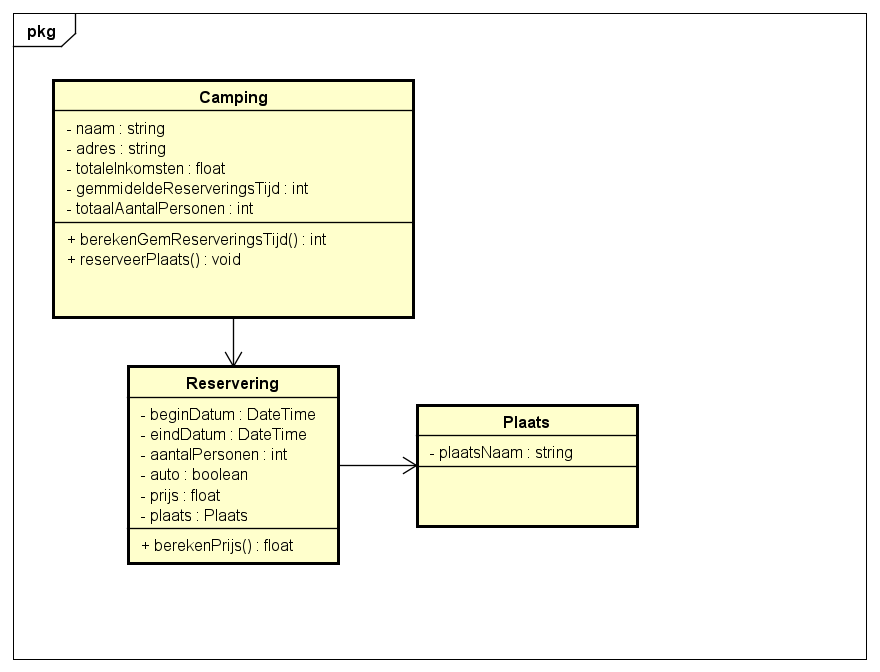
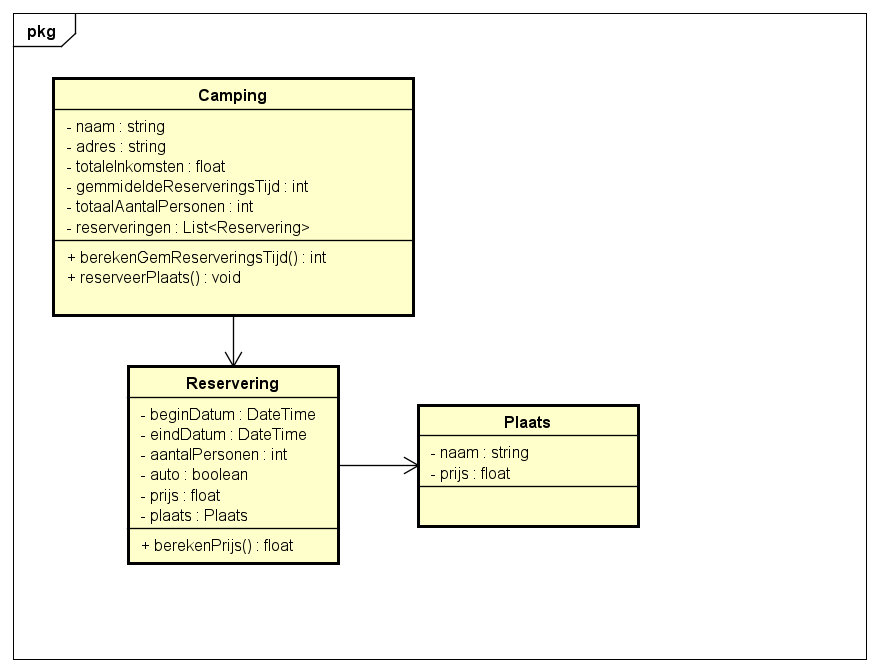
Mockup toegevoegd en klassediagram uitgebreidt

Changed region(s): [[0.0614, 0.0938, 0.4602, 0.4375], [0.4602, 0.625, 0.7364, 0.75], [0.0614, 0.4688, 0.4602, 0.5]]

diff --git a/readme.md b/readme.md
@@ -59,6 +59,11 @@ In de onderstaande tabel zal de uitvoer beschreven worden.
 
 ![Klassendiagram](ClassDiagram.png "Eerste versie van het klassendiagram")
 
+## Mockup
+
+![Mockup](Mockup.png "Eerste versie van de mockup")
+
+
 ## Testplan
 
 In dit onderdeel zal beschreven worden hoe de aplicatie getest gaat worden.
@@ -110,8 +115,7 @@ Verifieer de gemiddelde reserveringsduur.
 
 | Stap | Invoer                        | Actie                              | Verwachte Uitvoer |
 | ---- | ----------------------------- | ---------------------------------- | ----------------- |
-| 1    |                               | Reserveringen ophalen uit database |                   |
-| 2    | Reserveringsduur uit database | Gemiddelde berekenen               | `19`              |
+| 1    |                               | Reserveringen ophalen uit database |             s              | `19`              |
 
 #### #3 Totaal Aantal Personen
 
